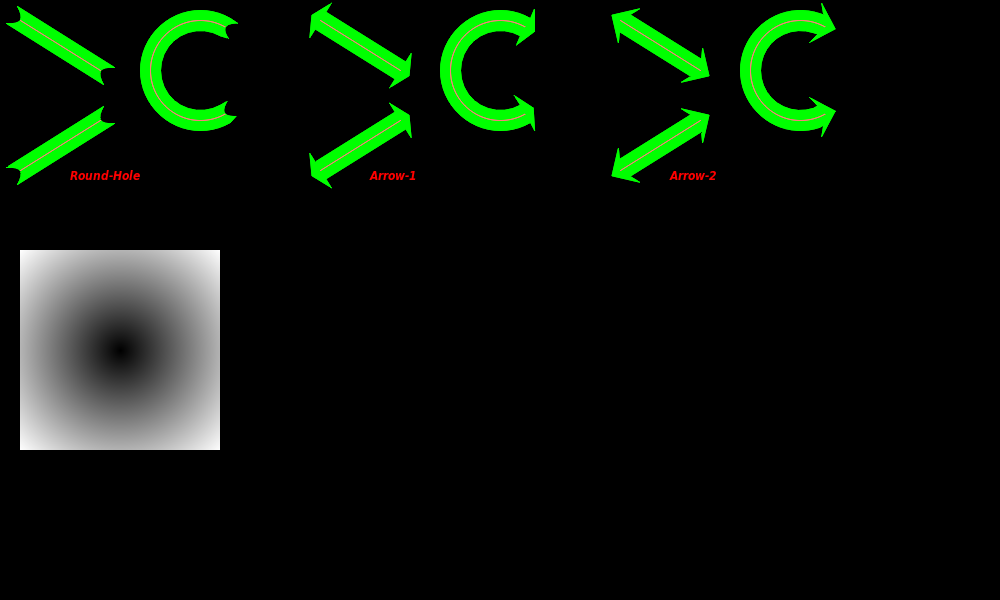
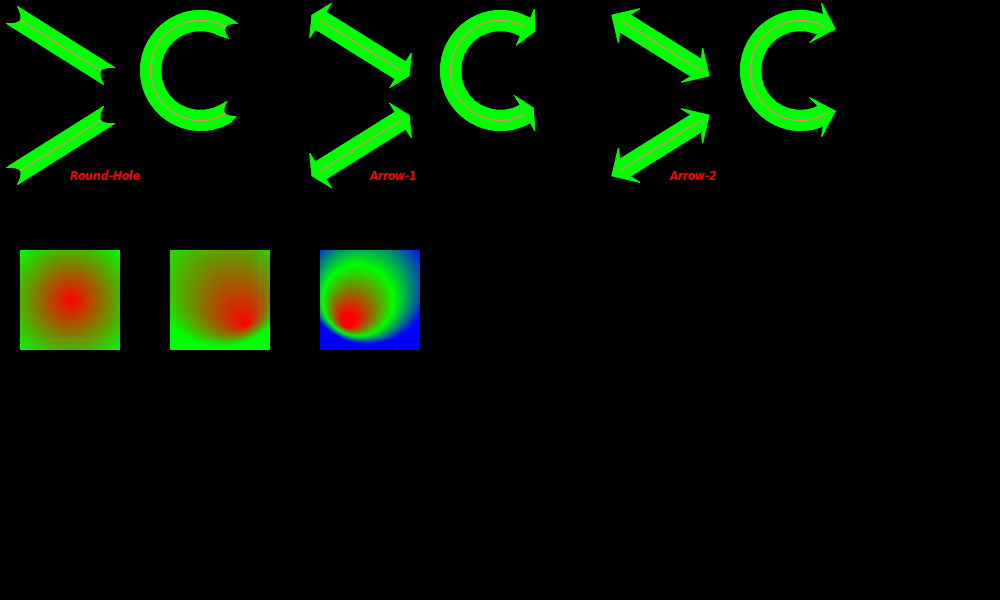
Experimenting with radial gradient

Changed region(s): [[0.0, 0.39, 0.279, 0.75], [0.31, 0.39, 0.434, 0.6]]

diff --git a/src/Pt-Gfx/Brush.cpp b/src/Pt-Gfx/Brush.cpp
@@ -37,10 +37,52 @@ namespace Gfx {
 
 void ColorStops::calculateInterpolatedColorBGRA32(Pt::uint8_t bgra32Res[4], const float position) const
 {
-    bgra32Res[0] = position * 255.0f;
-    bgra32Res[1] = position * 255.0f;
-    bgra32Res[2] = position * 255.0f;
-    bgra32Res[3] = 255;
+    // If the position is less or equal than the first position, then simply return the first color
+    if(position <= _stops[0].position()) {
+        bgra32Res[0] = _stops[0].b8();
+        bgra32Res[1] = _stops[0].g8();
+        bgra32Res[2] = _stops[0].r8();
+        bgra32Res[3] = _stops[0].a8();
+        return;
+    }
+
+    // If the position is greater or equal than the last position, then simply return the last color
+    if(position >= _stops.back().position()) {
+        bgra32Res[0] = _stops.back().b8();
+        bgra32Res[1] = _stops.back().g8();
+        bgra32Res[2] = _stops.back().r8();
+        bgra32Res[3] = _stops.back().a8();
+        return;
+    }
+
+    // Find out in what two stops the position is between
+    std::size_t stopIndex = 0;
+    while(true) {
+        if(position < _stops[stopIndex].position()) break;
+        ++stopIndex;
+    }
+
+    // Get the positions and colors
+    const float       p1 = _stops[stopIndex - 1]. position();
+    const Pt::uint8_t r1 = _stops[stopIndex - 1]. r8();
+    const Pt::uint8_t g1 = _stops[stopIndex - 1]. g8();
+    const Pt::uint8_t b1 = _stops[stopIndex - 1]. b8();
+    const Pt::uint8_t a1 = _stops[stopIndex - 1]. a8();
+
+    const float       p2 = _stops[stopIndex    ]. position();
+    const Pt::uint8_t r2 = _stops[stopIndex    ]. r8();
+    const Pt::uint8_t g2 = _stops[stopIndex    ]. g8();
+    const Pt::uint8_t b2 = _stops[stopIndex    ]. b8();
+    const Pt::uint8_t a2 = _stops[stopIndex    ]. a8();
+
+    // Scale the position
+    const float spos = (position - p1) / (p2 - p1);
+
+    // Interpolate the color
+    bgra32Res[0] = b1 + (b2 - b1) * spos;
+    bgra32Res[1] = g1 + (g2 - g1) * spos;
+    bgra32Res[2] = r1 + (r2 - r1) * spos;
+    bgra32Res[3] = a1 + (a2 - a1) * spos;
 }
 
 

diff --git a/src/Pt-Gfx/Rasterizer2.cpp b/src/Pt-Gfx/Rasterizer2.cpp
@@ -585,54 +585,6 @@ void Rasterizer2::updateGradientBrush_gen2DRadialGradient(Pt::int32_t width, Pt:
         *pixelBuffer++ = bgra32Res[3];
     }
 
-    /*
-        if (discrim >= 0) {
-
-             //find out what two stops this is between
-            if (ratio == 1) {
-                stopNumber = this.colorStops.length-1;
-            }
-            else {
-                stopNumber = 0;
-                found = false;
-                while (!found) {
-                    found = (ratio < this.colorStops[stopNumber].ratio);
-                    if (!found) {
-                        stopNumber++;
-                    }
-                }
-            }
-
-            //calculate color.
-            r0 = this.colorStops[stopNumber-1].r;
-            g0 = this.colorStops[stopNumber-1].g;
-            b0 = this.colorStops[stopNumber-1].b;
-            r1 = this.colorStops[stopNumber].r;
-            g1 = this.colorStops[stopNumber].g;
-            b1 = this.colorStops[stopNumber].b;
-            ratio0 = this.colorStops[stopNumber-1].ratio;
-            ratio1 = this.colorStops[stopNumber].ratio;
-
-            f = (ratio-ratio0)/(ratio1-ratio0);
-            r = r0 + (r1 - r0)*f;
-            g = g0 + (g1 - g0)*f;
-            b = b0 + (b1 - b0)*f;
-        }
-
-        else {
-            r = r0;
-            g = g0;
-            b = b0;
-        }
-
-        //set color as float values in buffer arrays
-        rBuffer.push(r);
-        gBuffer.push(g);
-        bBuffer.push(b);
-    }
-     */
-
-
 /*
     // Determine the start and end colors
     Pt::uint8_t sc[4], ec[4], rc[4];

diff --git a/src/Pt-Gfx/tests/ImagePainterTest2_Draw_Extra.cpp b/src/Pt-Gfx/tests/ImagePainterTest2_Draw_Extra.cpp
@@ -68,14 +68,25 @@ static void testDrawExtra(const char* title, Image& image, Painter& painter)
     ip2->setPen(penText);
     ip2->drawText( PointF(70 + 600, 180), "Arrow-2" );
 
-    // Radial gradient
-    ColorStops stops;
-    stops.add(0.0, Color::fromRgb8(255, 0, 0, 175));
-    stops.add(1.0, Color::fromRgb8(0, 255, 0, 175));
+    // Color stops
+    ColorStops stops2;
+    stops2.add(0.0, Color::fromRgb8(255, 0, 0, 175));
+    stops2.add(1.0, Color::fromRgb8(0, 255, 0, 175));
 
-    //painter.setBrush( Brush::radialGradient(0.75, 0.75, 0.0, 0.5, 0.25, 0.5, stops) );
-    painter.setBrush( Brush::radialGradient(0.5, 0.5, 0.0, 0.5, 0.5, 0.5, stops) );
-    painter.fillRect( RectF(PointF(20, 250), SizeF(200, 200)) );
+    ColorStops stops3;
+    stops3.add(0.1, Color::fromRgb8(255, 0, 0, 175));
+    stops3.add(0.5, Color::fromRgb8(0, 255, 0, 175));
+    stops3.add(0.9, Color::fromRgb8(0, 0, 255, 175));
+
+    // Radial gradients
+    painter.setBrush( Brush::radialGradient(0.5, 0.5, 0.0, 0.5, 0.5, 0.5, stops2) );
+    painter.fillRect( RectF(PointF(20 + 150 * 0, 250), SizeF(100, 100)) );
+
+    painter.setBrush( Brush::radialGradient(0.75, 0.75, 0.0, 0.5, 0.25, 0.5, stops2) );
+    painter.fillRect( RectF(PointF(20 + 150 * 1, 250), SizeF(100, 100)) );
+
+    painter.setBrush( Brush::radialGradient(0.25, 0.75, 0.0, 0.5, 0.25, 0.5, stops3) );
+    painter.fillRect( RectF(PointF(20 + 150 * 2, 250), SizeF(100, 100)) );
 
 /*
     // --- Part 1 ---

diff --git a/include/Pt/Gfx/Brush.h b/include/Pt/Gfx/Brush.h
@@ -94,6 +94,8 @@ class ColorStops
         void clear()
         { _stops.clear(); }
 
+        // TODO: Throw exception if the position < 0.0 or position > 1.0
+        // TODO: Throw exception if the positions are mixed up
         void add(float position, const Color& color)
         { _stops.push_back( ColorStop(position, color) ); }
 
